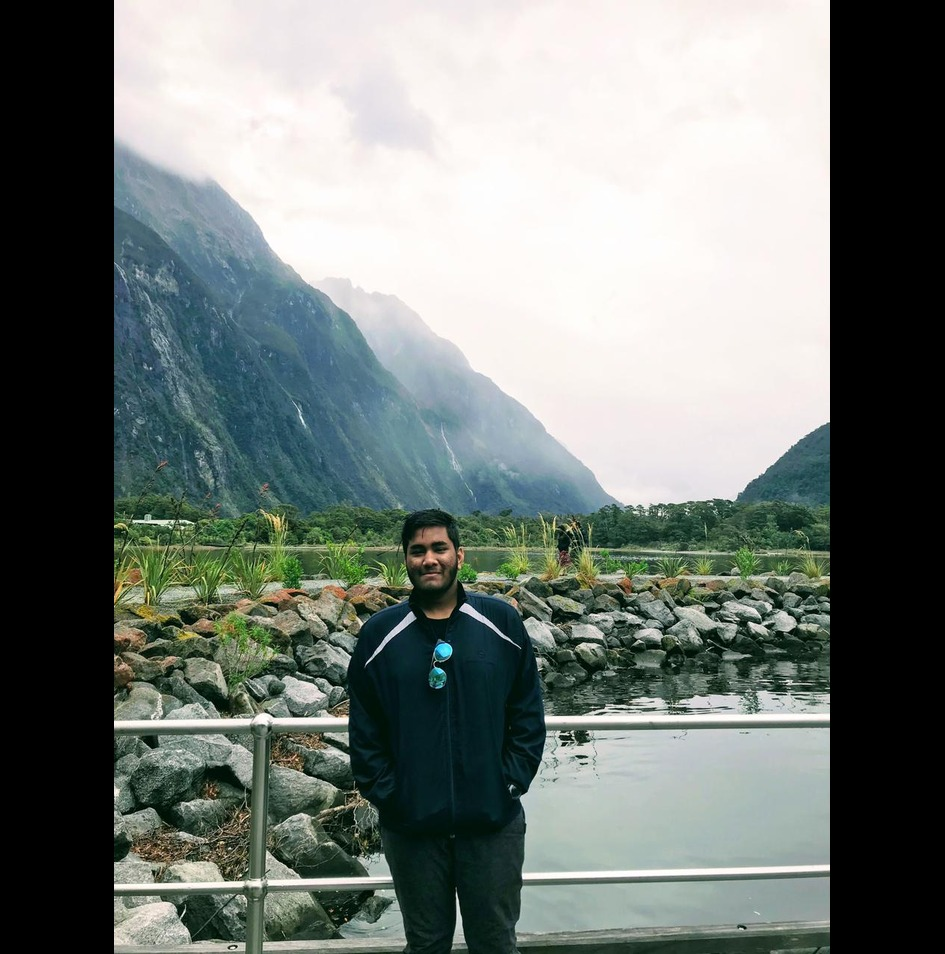
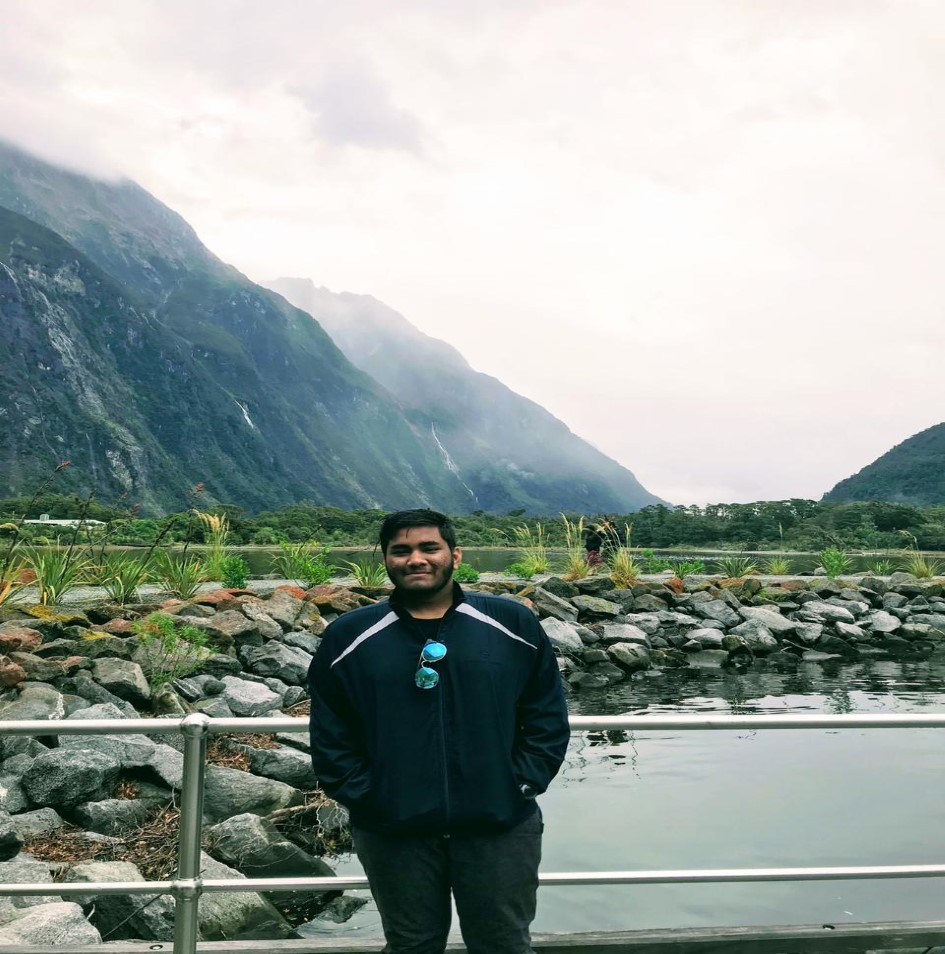
login css done

diff --git a/frontend/src/pages/Register.jsx b/frontend/src/pages/Register.jsx
@@ -1,90 +1,110 @@
-import React,{useState, useContext} from 'react'
-import { Container, Row, Col, Form , FormGroup, Button } from 'reactstrap'
-import {Link, useNavigate} from 'react-router-dom'
+import React, { useState, useContext } from "react";
+import { Container, Row, Col, Form, FormGroup, Button } from "reactstrap";
+import { Link, useNavigate } from "react-router-dom";
 import registerImg from "../assets/images/register.png";
 import userIcon from "../assets/images/user.png";
-import '../styles/login.css'
-import {AuthContext} from './../context/AuthContext';
-import {BASE_URL} from './../utils/config';
+import "../styles/login.css";
+import { AuthContext } from "./../context/AuthContext";
+import { BASE_URL } from "./../utils/config";
 
 const Register = () => {
   const [credentials, setCredentials] = useState({
-    userName:undefined,
-   email:undefined,
-   password:undefined
+    userName: undefined,
+    email: undefined,
+    password: undefined,
   });
 
-  const {dispatch} = useContext(AuthContext)
-  const navigate = useNavigate()
+  const { dispatch } = useContext(AuthContext);
+  const navigate = useNavigate();
 
-  const handleChange = e => {
-    setCredentials(prev=>({...prev,[e.target.id]:e.target.value}))
+  const handleChange = (e) => {
+    setCredentials((prev) => ({ ...prev, [e.target.id]: e.target.value }));
   };
 
-  const handleClick = async e =>{
+  const handleClick = async (e) => {
     e.preventDefault();
 
     try {
       const res = await fetch(`${BASE_URL}/auth/register`, {
-        method:'post',
-        headers:{
-          'content-type':'application/json'
+        method: "post",
+        headers: {
+          "content-type": "application/json",
         },
         body: JSON.stringify(credentials),
       });
 
       const result = await res.json();
 
-      if(!res.ok) alert(result.message);
+      if (!res.ok) alert(result.message);
 
-      dispatch({type:'REGISTER_SUCCESS'});
-      navigate('/login');
-
+      dispatch({ type: "REGISTER_SUCCESS" });
+      navigate("/login");
     } catch (err) {
       alert(err.message);
     }
-  }
+  };
 
-  return <section>
-    <Container>
-      <Row>
-        <Col lg='8' className='m-auto'>
-          <div className='register__container d-flex justify-content-between'>
-            <div className='login__img'>
-              <img src={registerImg} alt=''/>
+  return (
+    <section className="journey">
+      <Container>
+        <Row>
+          <Col lg="8" className="m-auto">
+            <div className="login__container d-flex justify-content-between">
+              <div className="login__img">
+                <img src={registerImg} alt="" />
+              </div>
+              <div className="login__form">
+                <div className="user">
+                  <img src={userIcon} alt="" />
+                </div>
+
+                <h2>Register</h2>
+
+                <Form onSubmit={handleClick}>
+                  <FormGroup>
+                    <input
+                      type="text"
+                      placeholder="Username"
+                      required
+                      id="username"
+                      onChange={handleChange}
+                    ></input>
+                  </FormGroup>
+                  <FormGroup>
+                    <input
+                      type="text"
+                      placeholder="Email"
+                      required
+                      id="email"
+                      onChange={handleChange}
+                    ></input>
+                  </FormGroup>
+                  <FormGroup>
+                    <input
+                      type="password"
+                      placeholder="Password"
+                      required
+                      id="password"
+                      onChange={handleChange}
+                    ></input>
+                  </FormGroup>
+                  <Button
+                    className="btn secondary__btn auth__btn"
+                    type="submit"
+                  >
+                    Create Account
+                  </Button>
+                </Form>
+                <p>
+                  Already have an account ? <Link to="/login">Login</Link>
+                </p>
+              </div>
             </div>
-            <div className='login__form'>
-            <div className='user'>
-              <img src={userIcon} alt=""/>
-            </div>
+          </Col>
+        </Row>
+      </Container>
+    </section>
+  );
+};
 
-            <h2>
-              Register
-            </h2>
-
-            <Form onSubmit={handleClick}>
-              <FormGroup>
-                <input type='text' placeholder='Username' required id='username' onChange={handleChange}></input>
-              </FormGroup>
-              <FormGroup>
-                <input type='text' placeholder='Email' required id='email' onChange={handleChange}></input>
-              </FormGroup>
-              <FormGroup>
-                <input type='password' placeholder='Password' required id='password' onChange={handleChange}></input>
-              </FormGroup>
-              <Button className='btn secondary__btn auth__btn' type='submit'>Create Account</Button>
-            </Form>
-            <p>
-              Already have an account ? <Link to='/login'>Login</Link>
-            </p>
-
-            </div>
-          </div>
-        </Col>
-      </Row>
-    </Container>
-  </section>
-  
-}
-
-export default Register
+export default Register;

diff --git a/frontend/src/styles/login.css b/frontend/src/styles/login.css
@@ -1,107 +1,109 @@
-
-
-.login__img{
-    width: 60%;
-    text-align: center;
+.login__img {
+  width: 60%;
+  text-align: center;
 }
 
-.login__img img{
-    width: 70%;
-    object-fit: contain;
+.login__img img {
+  width: 70%;
+  object-fit: contain;
 }
 
-.login__form{
-    padding: 50px;
-    background: var(--secondary-color);
-    position: relative;
+.login__form {
+  padding: 50px;
+  background: var(--secondary-color);
+  position: relative;
 }
 
-.login__container{
-    box-shadow: rgba(17, 12, 46, 0.15) 0px 48px 100px 0px;
-    margin-top: 100px;
+.login__container {
+  box-shadow: rgba(17, 12, 46, 0.5) 0px 48px 100px 0px;
+  background-color: #fff;
+  margin-top: 100px;
 }
 
-.login__form .user{
-    width: 80px;
-    height: 80px;
-    position: absolute;
-    top: -9%;
-    left: 50%;
-    transform: translate(-50% ,-9%);
+.login__form .user {
+  width: 80px;
+  height: 80px;
+  position: absolute;
+  top: -9%;
+  left: 50%;
+  transform: translate(-50%, -9%);
 }
 
-
-
-.login__form .user img{
-    width: 100%;
+.login__form .user img {
+  width: 100%;
 }
 
-.login__form h2{
-    color: #fff;
-    text-align: center;
-    margin-bottom: 2rem;
+.login__form h2 {
+  color: #fff;
+  text-align: center;
+  margin-bottom: 2rem;
 }
 
-.login__form{
-    width: 40%;
+.login__form {
+  width: 40%;
+}
+.journey {
+  background-image: url("https://imgak.mmtcdn.com/seo/cms-staticpages/sites/all/themes/custom/makemytrip/images/aboutus/mmtJourneyBg.jpg");
+  object-fit: fill;
+  display: flex;
+  background-size: cover;
+  height: 700px;
 }
 
-
-
-.login__form input{
-    width: 100%;
-    padding: 0.5rem 1rem;
-    border-radius: 5px;
-    border: none;
-    font-size: 1rem;
-    color: var(--heading-color);
+.login__form input {
+  width: 100%;
+  padding: 0.5rem 1rem;
+  border-radius: 5px;
+  border: none;
+  font-size: 1rem;
+  color: var(--heading-color);
 }
 
-.login__form input:focus{
-    outline: none;
+.login__form input:focus {
+  outline: none;
 }
 
-.auth__btn{
-    background: var(--heading-color) !important;
-    width: 100%;
-    color: #fff !important;
+.auth__btn {
+  background: var(--heading-color) !important;
+  width: 100%;
+  color: #fff !important;
 }
 
-.login__form p{
-    font-size: .9rem;
-    color: #fff;
-    margin-top: 1.5rem;
-    text-align: center;
+.login__form p {
+  font-size: 0.9rem;
+  color: #fff;
+  margin-top: 1.5rem;
+  text-align: center;
 }
 
 .login__form p a {
-    color: var(--heading-color);
-    text-decoration: none;
-    margin-left: 5px;
-    font-weight: 500;
+  color: var(--heading-color);
+  text-decoration: none;
+  margin-left: 5px;
+  font-weight: 500;
 }
 
-@media only screen and (max-width:768px) {
-    .login__img{
-        display: none;
-    }
+@media only screen and (max-width: 768px) {
+  .login__img {
+    display: none;
+  }
 
-    .login__form{
-        width: 70%;
-        margin: auto;
-    }
+  .login__form {
+    width: 70%;
+    margin: auto;
+  }
 
-    .login__container{
-        padding-bottom: 2rem;
-    }
+  .login__container {
+    padding-bottom: 2rem;
+  }
 }
 
-@media only screen and (max-width:576px) {
-    .login__form{
-        width: 100%;
-    }
+@media only screen and (max-width: 576px) {
+  .login__form {
+    width: 100%;
+  }
 
-    .login__container{
-        padding-bottom: 3rem;
-    }
+  .login__container {
+    padding-bottom: 3rem;
+  }
 }

diff --git a/frontend/src/pages/Login.jsx b/frontend/src/pages/Login.jsx
@@ -75,7 +75,7 @@ const Login = () => {
   };
 
   return (
-    <section>
+    <section className="journey">
       <Container>
         <Row>
           <Col lg="8" className="m-auto">
@@ -114,7 +114,7 @@ const Login = () => {
                     Login
                   </Button>
                 </Form>
-                <div className="mt-4">
+                <div className="mt-4 mx-4">
                   <GoogleOAuthProvider clientId="584594078595-34gia1q8lidamjknttbb10bn22u1k7qp.apps.googleusercontent.com">
                     <GoogleLogin
                       useOneTap={true}

diff --git a/frontend/src/styles/about.css b/frontend/src/styles/about.css
@@ -117,11 +117,13 @@ ul {
   display: flex;
   margin-bottom: 16px;
   border-radius: 50%;
+  object-fit: stretch;
 }
 
 .imgWrap img {
   border-radius: 50%;
-  object-fit: cover;
+  aspect-ratio: 4/4;
+  object-fit: stretch;
 }
 
 .imgWrap:hover {
